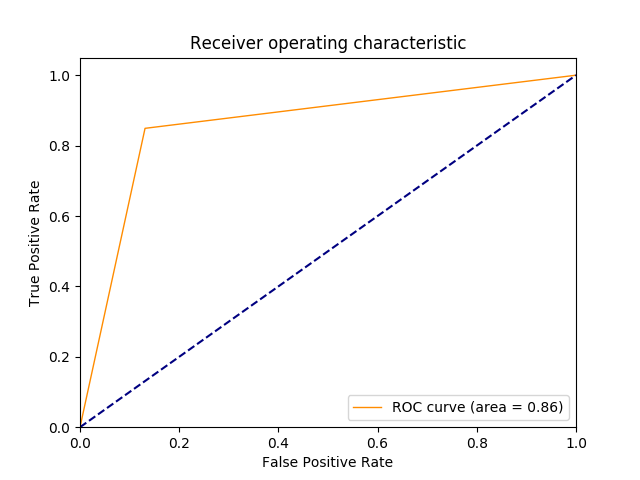
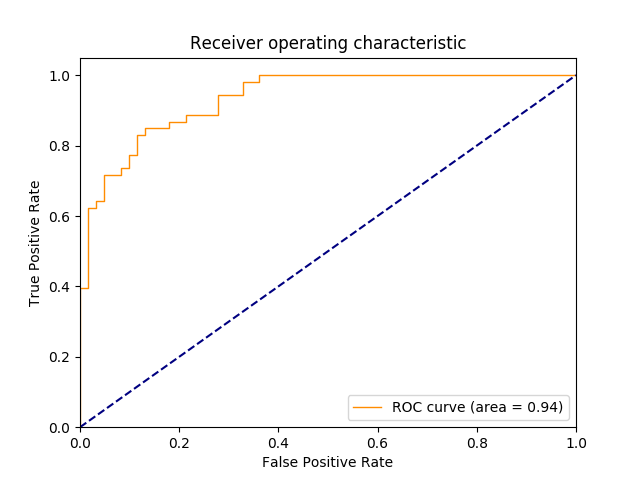
figures

diff --git a/Deploy/main.py b/Deploy/main.py
@@ -30,7 +30,7 @@ def AnomolyDetector(AllCases, y):
     test = H.reshape((53,849))
     # print(test.shape)
     # print(test)
-    clf = IsolationForest(max_samples='auto')
+    clf = IsolationForest(n_estimators=500, max_samples='auto')
     clf.fit(test)
     name = ""
     for x in range(3):  # loops case
@@ -113,7 +113,9 @@ def RandForest(AllData, y):
         else:
             name = "s_data"
         case = AllData[x]
-        y_predict = clf.predict(case)
+        y_predict = clf.predict_proba(case)[:,1]
+
+
         fpr, tpr, thresholds = sklearn.metrics.roc_curve(y[x], y_predict)
         plotRoc(fpr, tpr, str(x+10)+name+".png")
 
@@ -156,9 +158,14 @@ def PooledRF(AllData, y):
         else:
             name = "s_data_train_EandC"
         case = AllData[x]
-        y_predict = clf.predict(case)
+        y_predict = clf.predict_proba(case)[:,1]
         fpr, tpr, thresholds = sklearn.metrics.roc_curve(y[x], y_predict)
         plotRoc(fpr, tpr, str(x + 10) + name + ".png")
+
+
+
+def featExtraction(AllData, y):
+
 
 
 def main():
@@ -178,7 +185,7 @@ def main():
     AllY.append(data2["s_train"])
 
     # print(AllY[1].shape)
-    # AnomolyDetector(AllData, AllY)
-    # RandForest(AllData, AllY)
+    AnomolyDetector(AllData, AllY)
+    RandForest(AllData, AllY)
     PooledRF(AllData,AllY)
 main()
